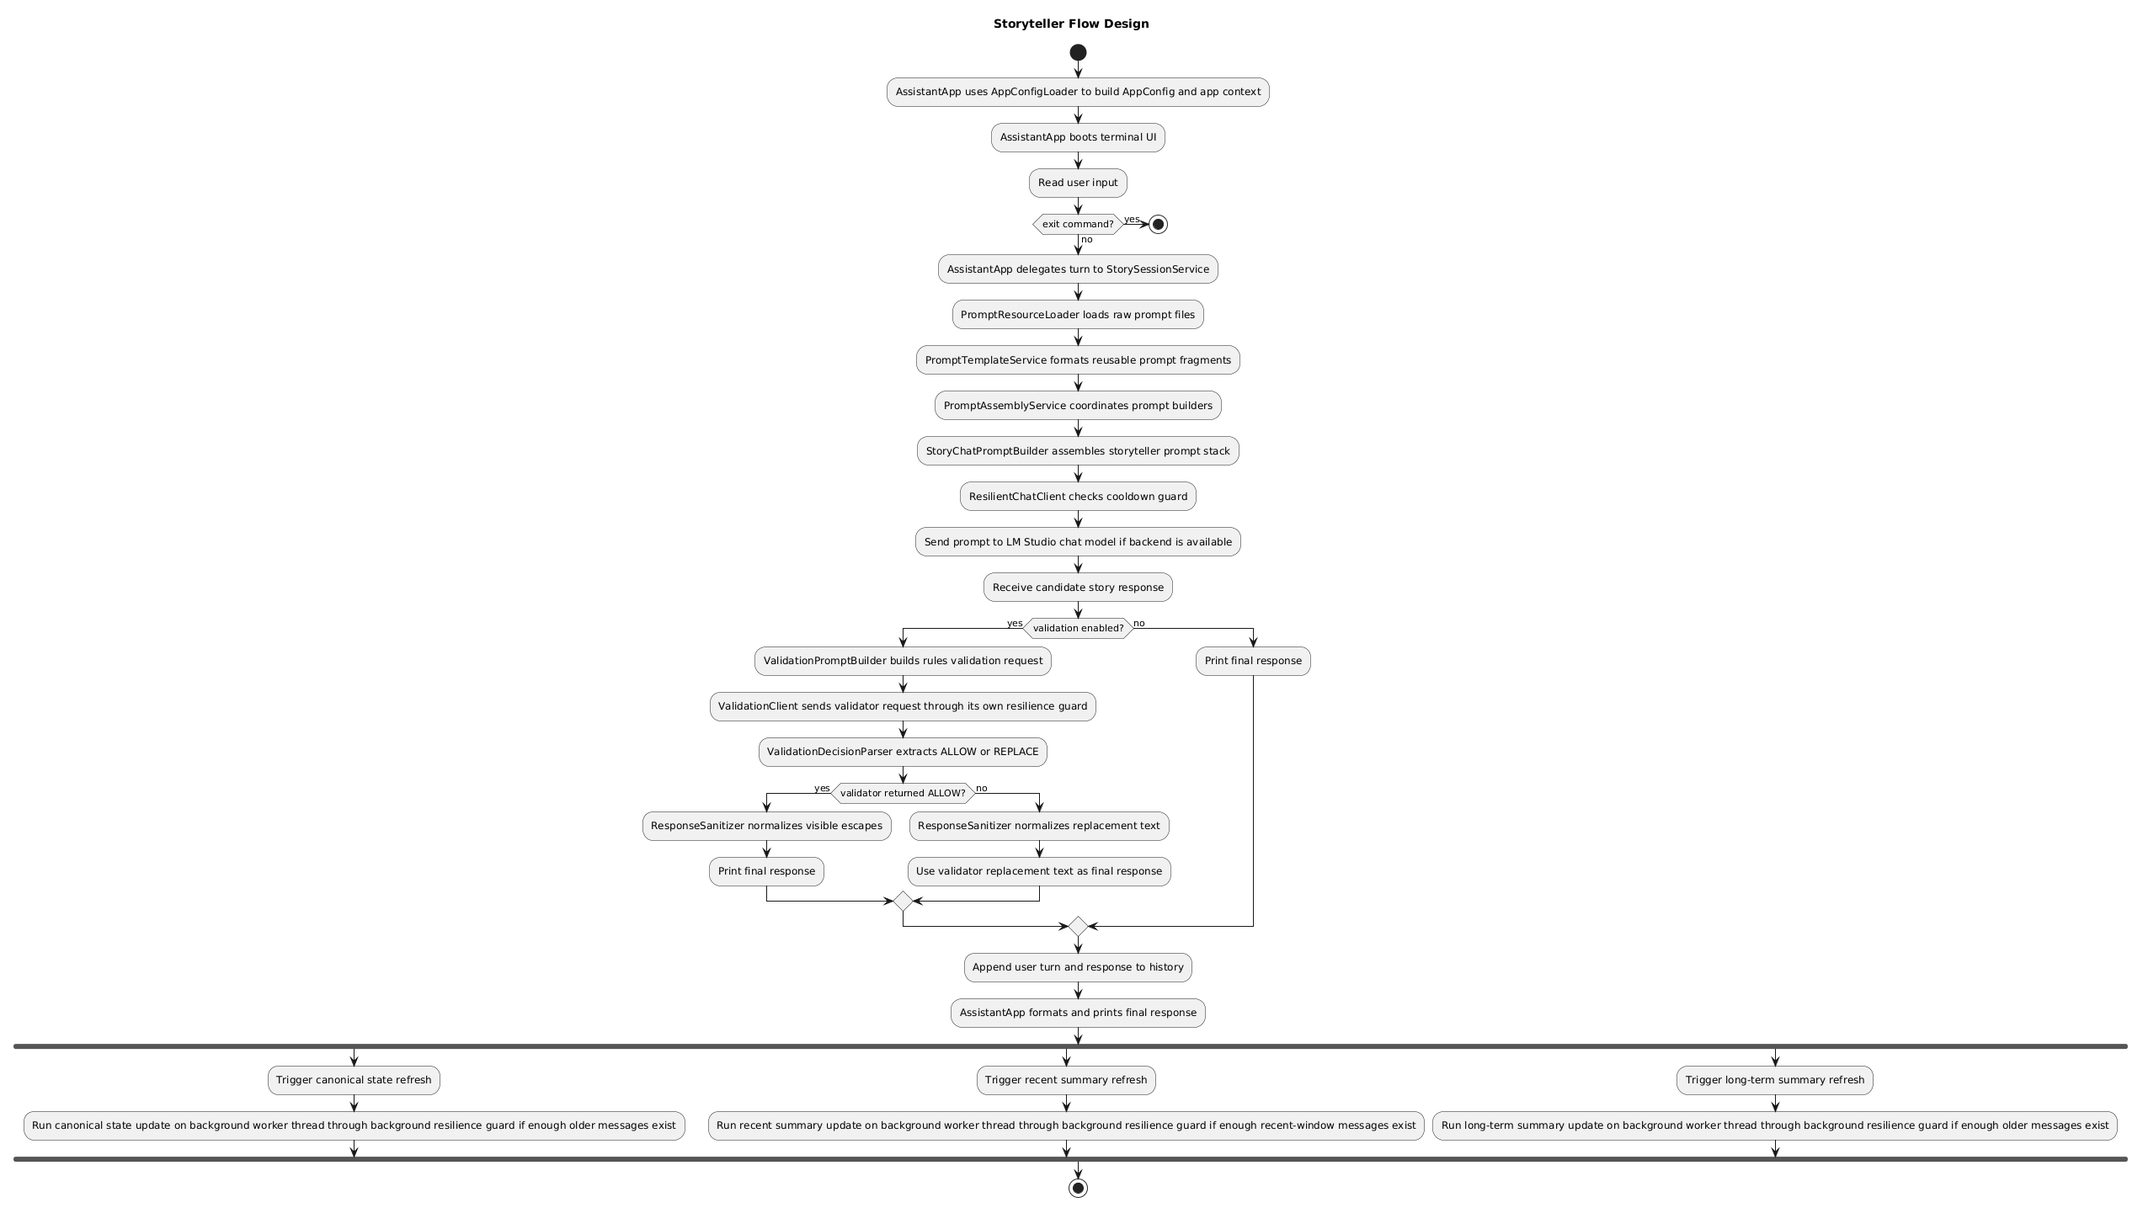
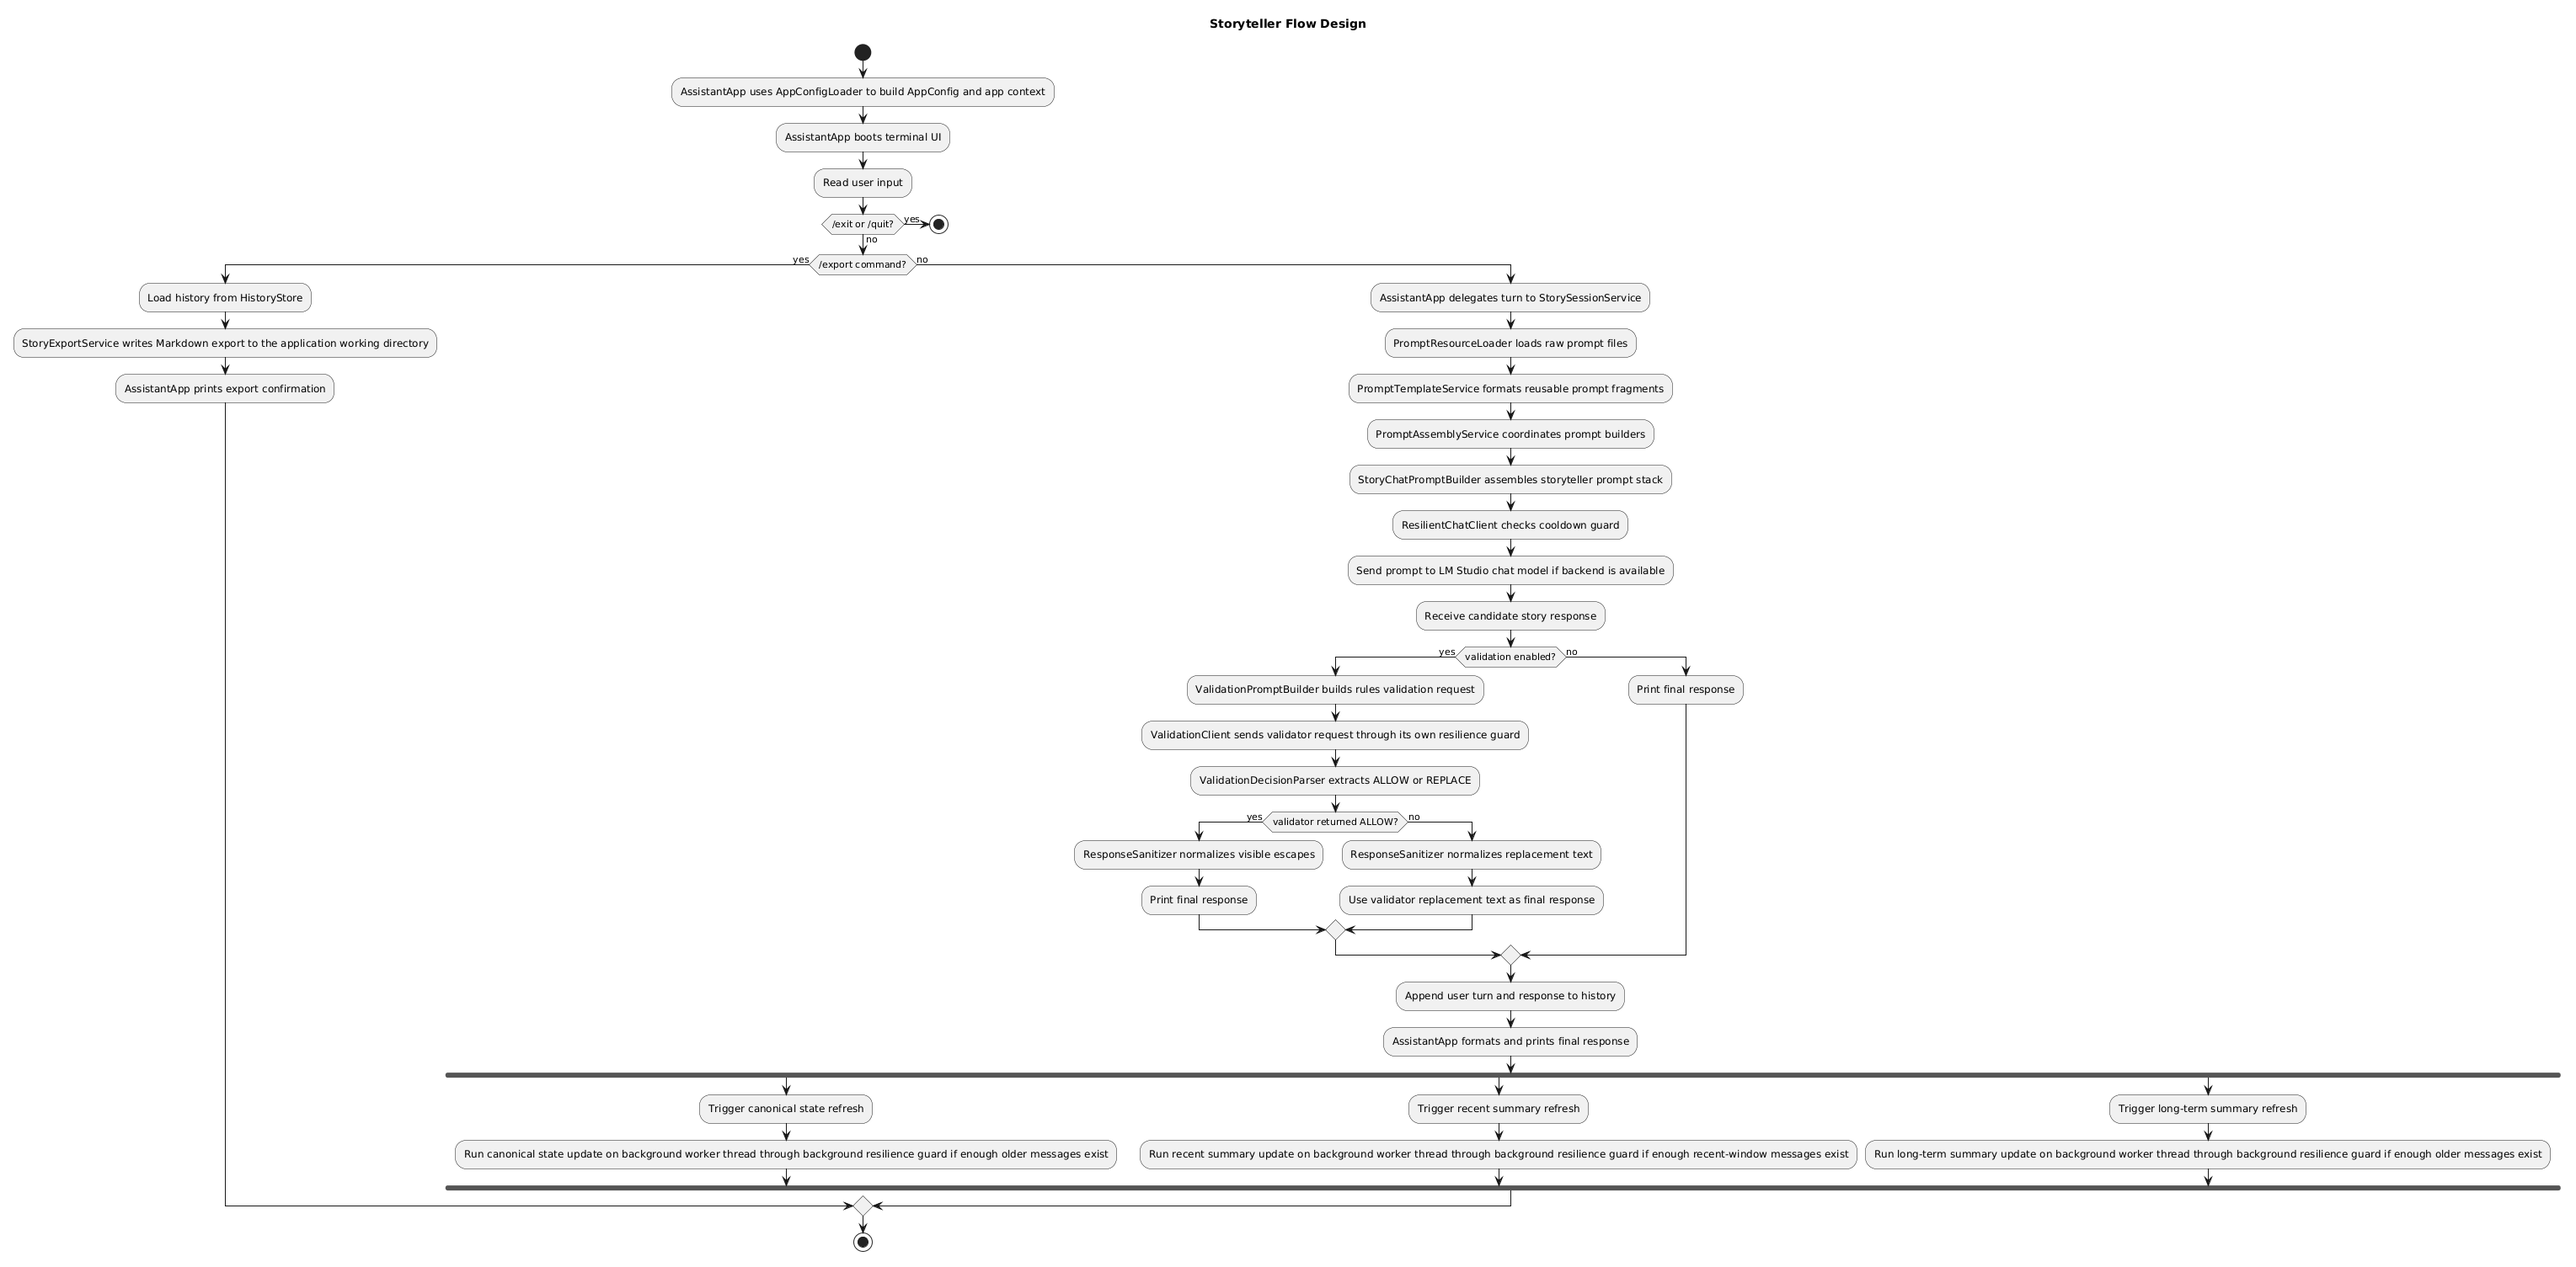
cleaning up code

Changed region(s): [[0.2483, 0.0, 0.6829, 0.7495], [0.0, 0.7495, 0.9933, 0.9681], [0.0, 0.2186, 0.1552, 0.3123]]

diff --git a/src/main/java/nl/llm/storyteller/service/StoryExportService.java b/src/main/java/nl/llm/storyteller/service/StoryExportService.java
@@ -16,6 +16,8 @@ public final class StoryExportService {
     private final HistoryStore historyStore;
     private final Path baseDir;
     private final Clock clock;
+    private static final String ASSISTANT = "assistant";
+    private static final String EXPORT = "# Story Export\n\n";
 
     public StoryExportService(HistoryStore historyStore, Path baseDir) {
         this(historyStore, baseDir, Clock.systemDefaultZone());
@@ -41,11 +43,11 @@ public final class StoryExportService {
     }
 
     private String exportAll(List<Message> messages) {
-        StringBuilder markdown = new StringBuilder("# Story Export\n\n");
+        StringBuilder markdown = new StringBuilder(EXPORT);
         for (Message message : messages) {
             if ("user".equals(message.role())) {
                 appendBlock(markdown, "## Prompt", message.content());
-            } else if ("assistant".equals(message.role())) {
+            } else if (ASSISTANT.equals(message.role())) {
                 appendBlock(markdown, "## Story", message.content());
             }
         }
@@ -53,11 +55,11 @@ public final class StoryExportService {
     }
 
     private String exportIntro(List<Message> messages) {
-        StringBuilder markdown = new StringBuilder("# Story Export\n\n");
+        StringBuilder markdown = new StringBuilder(EXPORT);
         for (Message message : messages) {
             if ("user".equals(message.role())) {
                 markdown.append('*').append(escapeInlineMarkdown(message.content())).append("*\n\n");
-            } else if ("assistant".equals(message.role())) {
+            } else if (ASSISTANT.equals(message.role())) {
                 markdown.append(message.content().trim()).append("\n\n");
             }
         }
@@ -65,9 +67,9 @@ public final class StoryExportService {
     }
 
     private String exportClean(List<Message> messages) {
-        StringBuilder markdown = new StringBuilder("# Story Export\n\n");
+        StringBuilder markdown = new StringBuilder(EXPORT);
         for (Message message : messages) {
-            if ("assistant".equals(message.role())) {
+            if (ASSISTANT.equals(message.role())) {
                 markdown.append(message.content().trim()).append("\n\n");
             }
         }

diff --git a/src/test/java/nl/llm/storyteller/DerivedMemoryManagerTest.java b/src/test/java/nl/llm/storyteller/DerivedMemoryManagerTest.java
@@ -1,8 +1,5 @@
 package nl.llm.storyteller;
 
-import nl.llm.storyteller.AppConfig;
-import nl.llm.storyteller.AppConfigLoader;
-import nl.llm.storyteller.FileSupport;
 import nl.llm.storyteller.model.HistoryState;
 import nl.llm.storyteller.model.Message;
 import nl.llm.storyteller.service.ChatClient;
@@ -23,6 +20,8 @@ import java.util.List;
 import java.util.Map;
 import java.util.concurrent.CountDownLatch;
 import java.util.concurrent.TimeUnit;
+import java.util.concurrent.atomic.AtomicBoolean;
+import java.util.concurrent.locks.LockSupport;
 
 import static org.junit.jupiter.api.Assertions.assertEquals;
 import static org.junit.jupiter.api.Assertions.assertNotNull;
@@ -158,7 +157,7 @@ class DerivedMemoryManagerTest {
             client.allowFinish().countDown();
             assertTrue(client.finished().await(5, TimeUnit.SECONDS));
 
-            waitForBackgroundWork();
+            awaitWorkerIdle(summaryManager);
 
             assertEquals("Original summary", FileSupport.readTextFile(context.config().summaryFile()));
             assertEquals(1, context.historyStore().load().summaryCursor());
@@ -202,9 +201,21 @@ class DerivedMemoryManagerTest {
         );
     }
 
-    private void waitForBackgroundWork() throws InterruptedException {
-        for (int attempt = 0; attempt < 20; attempt++) {
-            Thread.sleep(50L);
+    private void awaitWorkerIdle(Object manager) {
+        try {
+            var runningField = manager.getClass().getSuperclass().getDeclaredField("running");
+            runningField.setAccessible(true);
+            AtomicBoolean running = (AtomicBoolean) runningField.get(manager);
+
+            long deadlineNanos = System.nanoTime() + TimeUnit.SECONDS.toNanos(5);
+            while (running.get()) {
+                if (System.nanoTime() >= deadlineNanos) {
+                    throw new AssertionError("Background worker did not become idle within the timeout.");
+                }
+                LockSupport.parkNanos(TimeUnit.MILLISECONDS.toNanos(10));
+            }
+        } catch (ReflectiveOperationException ex) {
+            throw new AssertionError(ex);
         }
     }
 

diff --git a/src/test/java/nl/llm/storyteller/PromptAssemblyServiceTest.java b/src/test/java/nl/llm/storyteller/PromptAssemblyServiceTest.java
@@ -43,22 +43,7 @@ class PromptAssemblyServiceTest {
         Files.createDirectories(baseDirectory.resolve("memory"));
 
         AppConfig config = AppConfigLoader.load(baseDirectory, null);
-        HistoryStore historyStore = new HistoryStore(config.historyFile(), config.legacyHistoryFile());
-        historyStore.save(
-            new HistoryState(
-                List.of(
-                    new Message("user", "Older user"),
-                    new Message("assistant", "Older assistant"),
-                    new Message("user", "Recent user 1"),
-                    new Message("assistant", "Recent assistant 1"),
-                    new Message("user", "Recent user 2"),
-                    new Message("assistant", "Recent assistant 2")
-                ),
-                0,
-                0,
-                0
-            )
-        );
+        HistoryStore historyStore = getHistoryStore(config);
 
         FileSupport.writeTextFile(config.summaryFile(), "LONG SUMMARY");
         FileSupport.writeTextFile(config.recentSummaryFile(), "RECENT SUMMARY");
@@ -131,6 +116,26 @@ class PromptAssemblyServiceTest {
             recentSummaryManager.shutdown();
             canonicalStateManager.shutdown();
         }
+    }
+
+    private static HistoryStore getHistoryStore(AppConfig config) {
+        HistoryStore historyStore = new HistoryStore(config.historyFile(), config.legacyHistoryFile());
+        historyStore.save(
+            new HistoryState(
+                List.of(
+                    new Message("user", "Older user"),
+                    new Message("assistant", "Older assistant"),
+                    new Message("user", "Recent user 1"),
+                    new Message("assistant", "Recent assistant 1"),
+                    new Message("user", "Recent user 2"),
+                    new Message("assistant", "Recent assistant 2")
+                ),
+                0,
+                0,
+                0
+            )
+        );
+        return historyStore;
     }
 
     private void writeOverride(Path baseDirectory, String relativePath, String content) {

diff --git a/src/test/java/nl/llm/storyteller/service/StoryExportServiceTest.java b/src/test/java/nl/llm/storyteller/service/StoryExportServiceTest.java
@@ -13,6 +13,7 @@ import java.time.ZoneId;
 import java.util.List;
 
 import static org.junit.jupiter.api.Assertions.assertEquals;
+import static org.junit.jupiter.api.Assertions.assertFalse;
 import static org.junit.jupiter.api.Assertions.assertTrue;
 
 class StoryExportServiceTest {
@@ -35,7 +36,7 @@ class StoryExportServiceTest {
         StoryExportService exportService = new StoryExportService(
             historyStore,
             baseDirectory,
-            fixedClock("2026-07-28T10:15:30Z")
+            fixedClock()
         );
 
         Path exportFile = exportService.export(StoryExportService.ExportMode.INTRO);
@@ -67,15 +68,15 @@ class StoryExportServiceTest {
         StoryExportService exportService = new StoryExportService(
             historyStore,
             baseDirectory,
-            fixedClock("2026-07-28T10:15:30Z")
+            fixedClock()
         );
 
         String markdown = Files.readString(exportService.export(StoryExportService.ExportMode.CLEAN));
 
         assertTrue(markdown.contains("Story one"));
         assertTrue(markdown.contains("Story two"));
-        assertTrue(!markdown.contains("Prompt one"));
-        assertTrue(!markdown.contains("Prompt two"));
+        assertFalse(markdown.contains("Prompt one"));
+        assertFalse(markdown.contains("Prompt two"));
     }
 
     @Test
@@ -97,7 +98,7 @@ class StoryExportServiceTest {
         StoryExportService exportService = new StoryExportService(
             historyStore,
             baseDirectory,
-            fixedClock("2026-07-28T10:15:30Z")
+            fixedClock()
         );
 
         String markdown = Files.readString(exportService.export(StoryExportService.ExportMode.ALL));
@@ -112,7 +113,7 @@ class StoryExportServiceTest {
         return new HistoryState(List.of(messages), 0, 0, 0);
     }
 
-    private Clock fixedClock(String instant) {
-        return Clock.fixed(Instant.parse(instant), ZoneId.systemDefault());
+    private Clock fixedClock() {
+        return Clock.fixed(Instant.parse("2026-07-28T10:15:30Z"), ZoneId.systemDefault());
     }
 }

diff --git a/src/test/java/nl/llm/storyteller/service/LlmBackendGuardTest.java b/src/test/java/nl/llm/storyteller/service/LlmBackendGuardTest.java
@@ -21,7 +21,7 @@ class LlmBackendGuardTest {
         When another call is attempted during the cooldown window,
         Then the guard should fail fast without calling the backend again
         """)
-    void shouldFailFastAfterConfiguredFailureThreshold() throws Exception {
+    void shouldFailFastAfterConfiguredFailureThreshold() {
         MutableClock clock = new MutableClock(Instant.parse("2026-07-27T10:00:00Z"));
         LlmBackendGuard guard = new LlmBackendGuard("Chat backend", 2, 30, clock);
         AtomicInteger delegateCalls = new AtomicInteger();

diff --git a/README.md b/README.md
@@ -302,6 +302,12 @@ Not yet.
 
 ## Changelog
 
+### 1.0.3
+- Switched terminal control commands from plain `exit` and `quit` to `/exit` and `/quit`
+- Added Markdown story export commands: `/export`, `/export -intro`, `/export -clean`, and `/export -all`
+- Added `StoryExportService` to export story history into Markdown files in the application working directory
+- Updated the README and PlantUML diagrams to document the new command and export flow
+
 ### 1.0.2
 - Added more test coverage
 - Added a lightweight resilience layer for repeated LLM backend failures, with separate cooldown policies for chat, validation, and background memory refreshes
